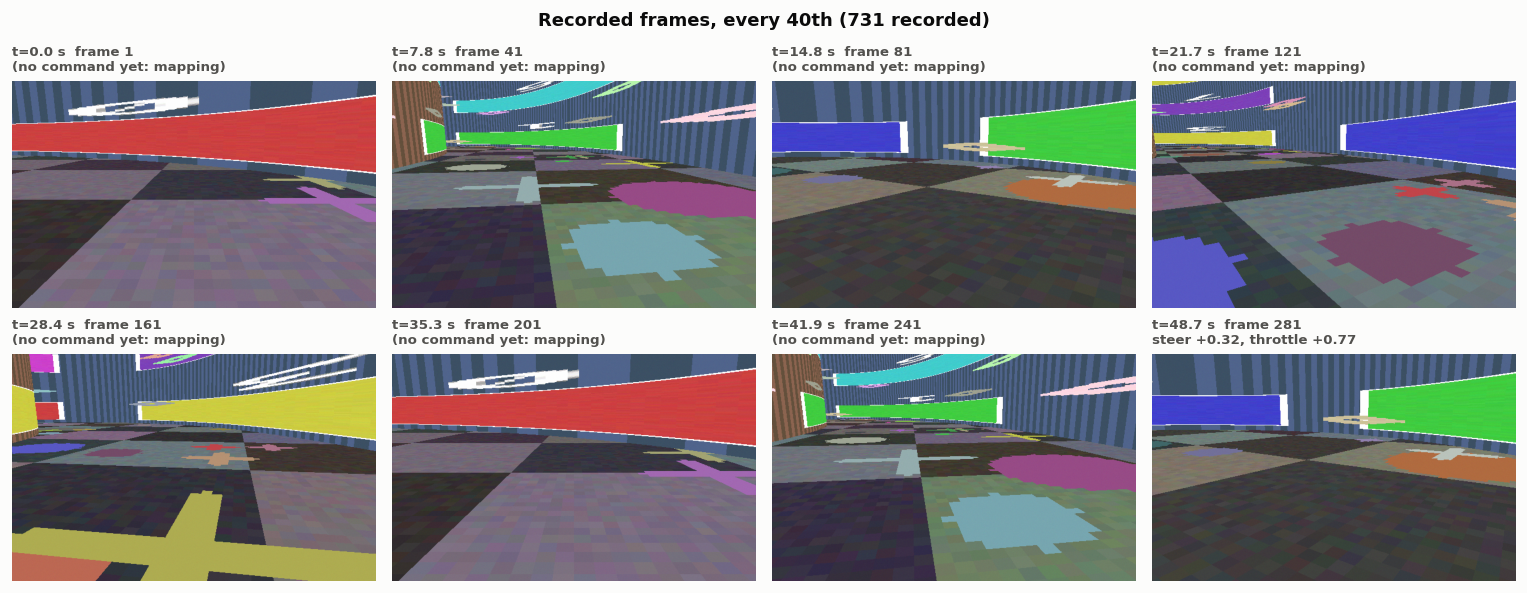
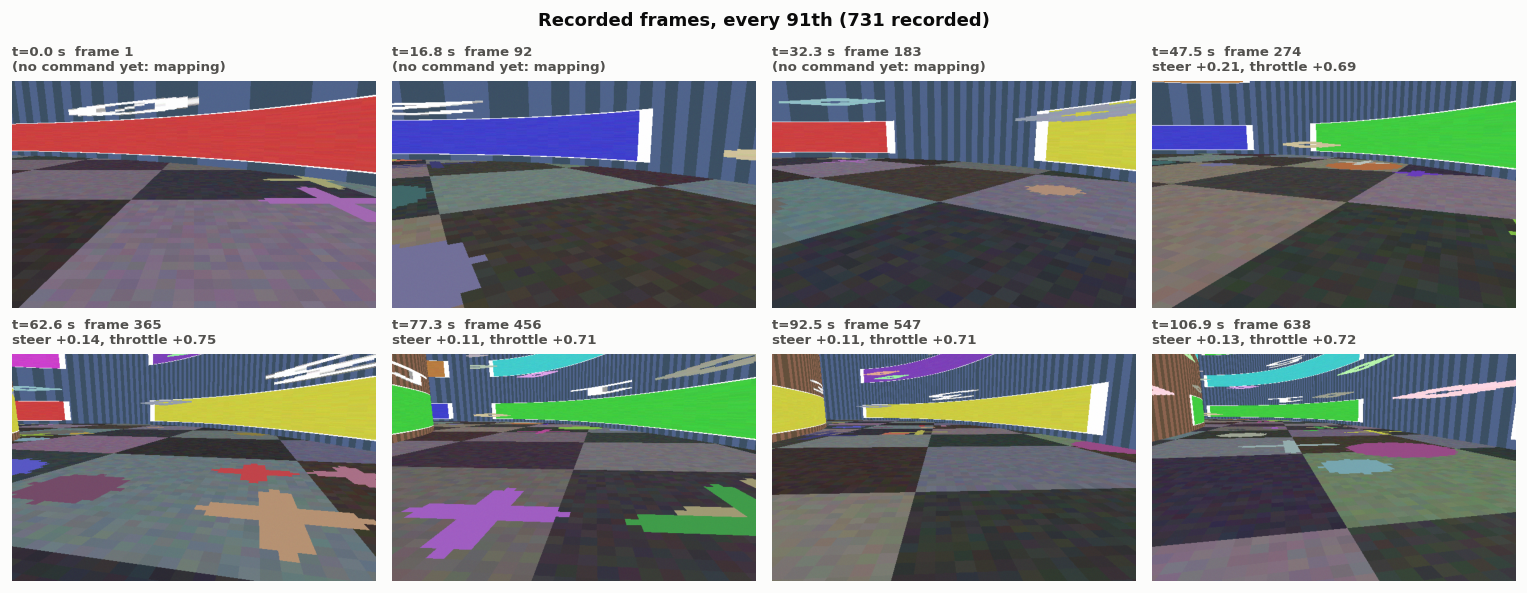
Spread the frame sheet across the whole run by default
Without --stride, render_recording.py now picks eight frames covering both the mapping lap and driving. Regenerated frames.png and updated the README table.

diff --git a/scripts/render_recording.py b/scripts/render_recording.py
@@ -343,7 +343,8 @@ def main() -> int:
     ap.add_argument("--truth", help="config with a synthetic_track section (synthetic runs only)")
     ap.add_argument("--settings", default=os.path.join(REPO_ROOT, "synthetic_slam_settings.yaml"),
                     help="ORB-SLAM3 settings with the camera intrinsics (for the depth_ftg scan)")
-    ap.add_argument("--stride", type=int, default=40, help="frame sampling for frames.png (default 40)")
+    ap.add_argument("--stride", type=int,
+                    help="frame sampling for frames.png (default: 8 frames spread over the run)")
     ap.add_argument("--frame", type=int, help="index of the frame for car_view.png (default: middle)")
     args = ap.parse_args()
     os.makedirs(args.out, exist_ok=True)
@@ -357,7 +358,7 @@ def main() -> int:
     t0 = min(b[0].produced_ts for b in (frames, segs, poses, clouds, boundaries, controls, states) if b)
     if frames:
         car_view(frames, segs, args.settings, args.out, args.frame)
-        frames_sheet(frames, controls, args.out, args.stride, t0)
+        frames_sheet(frames, controls, args.out, args.stride or max(1, len(frames) // 8), t0)
     if poses or clouds:
         map_figure(poses, clouds, boundaries, truth, args.out)
     result = track_figure(boundaries, truth, args.out) if boundaries else None

diff --git a/README.md b/README.md
@@ -197,7 +197,7 @@ command, and each pose with its ground truth.
 | ----- | ------- | ------ |
 | Recording | `recording_config.<buffer>.sample_k` | keep every k-th sample (`config.yaml` keeps every 2nd frame) |
 | Recording | `top_n`, `on_full: rotate`, `keep_files` | start a new file after `top_n` records and keep the newest `keep_files`, which bounds disk use on long runs; `on_full: stop` stops instead |
-| Rendering | `render_recording.py --stride N` | the frame sheet shows every N-th recorded frame |
+| Rendering | `render_recording.py --stride N` | the frame sheet shows every N-th recorded frame (default: 8 spread over the run) |
 | Datasets | `recording_to_dataset.py --stride N` | export every N-th frame |
 | SLAM map | every 30 frames, and once a loop closure is optimised | map points are republished occasionally, not per frame |
 
